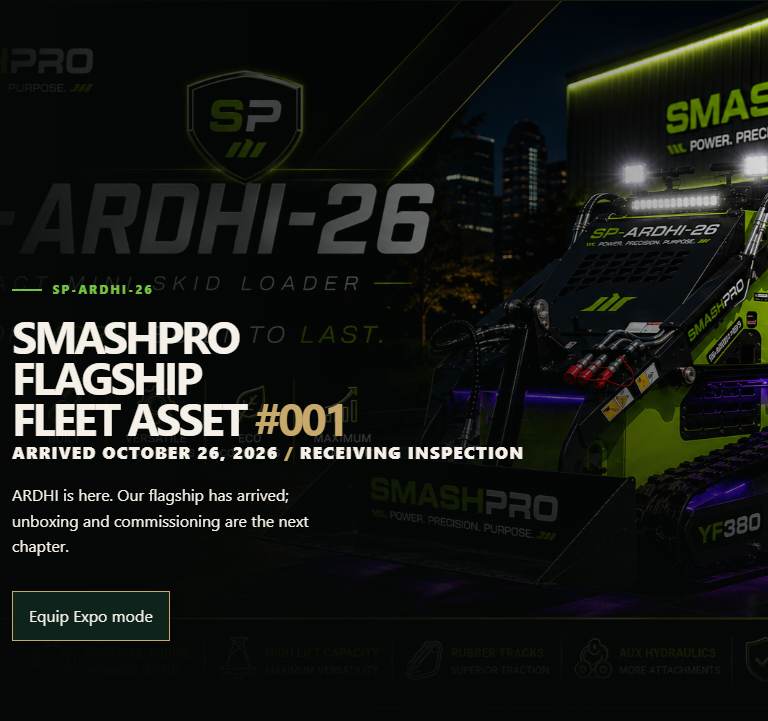
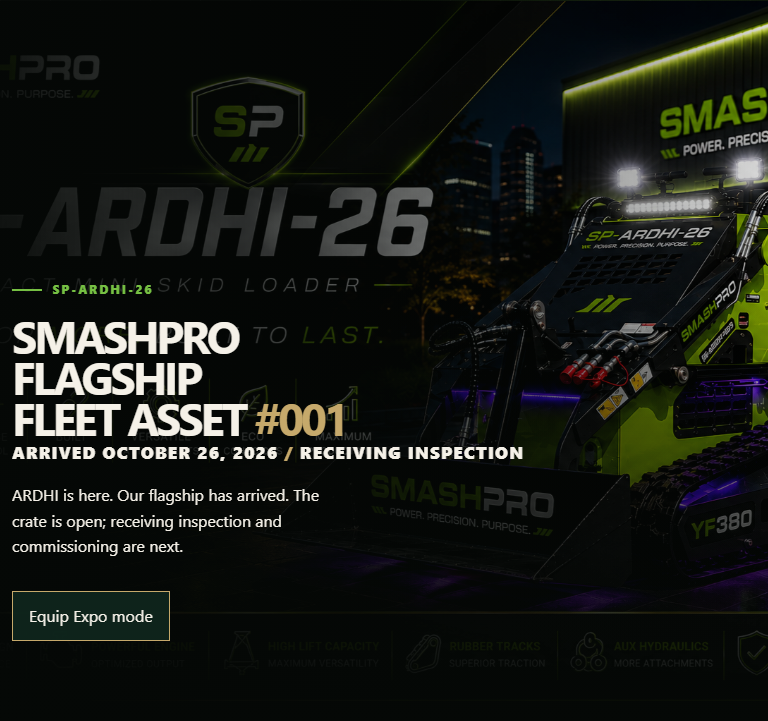
feat(ardhi): document crate opening with supplied photographs

diff --git a/src/data/ardhiDelivery.ts b/src/data/ardhiDelivery.ts
@@ -8,7 +8,7 @@ export const ardhiDelivery = {
   status: 'Delivered / Receiving inspection',
   carrier: 'R+L Carriers', pro: 'IACO468333', origin: 'CONVOY USA-SAVANNAH',
   cratedWeight: 'Approximately 950 kg',
-  summary: 'ARDHI has arrived. Final-mile delivery was completed on October 26, 2026. Receiving inspection is next; unboxing and commissioning are not yet verified.',
+  summary: 'ARDHI has arrived. Final-mile delivery was completed on October 26, 2026. Crate opening and panel removal are now photographed; receiving inspection and commissioning remain pending.',
   evidence: 'Carrier confirmation and photographs of the wooden shipping crate on the ground, confirmed by the owner on October 26, 2026. Delivery photographs are published below; the carrier confirmation document remains unpublished.',
 } as const;
 
@@ -22,14 +22,25 @@ export const ardhiDeliveryEvent: TimelineEvent = {
 // Original pixels; public copies remove GPS and private metadata, retain orientation.
 // One canonical gallery association per image; History references the gallery.
 export const ardhiDeliveryPhotos: GalleryImage[] = [
-  { id: 'ardhi-delivery-carrier-and-crate-20261026', src: '/equipment/images/sp-ardhi-26-delivery-2026-10-26-carrier-and-crate.jpg', alt: 'R+L Carriers truck beside ARDHI’s closed wooden shipping crate resting on the ground', caption: 'October 26, 2026: carrier and grounded shipping crate after final-mile delivery. The machine remains enclosed; this photograph does not establish commissioning.', capturedAt: '2026-10-26', width: 4000, height: 3000, group: 'delivery' },
-  { id: 'ardhi-delivery-crate-on-ground-20261026', src: '/equipment/images/sp-ardhi-26-delivery-2026-10-26-crate-on-ground.jpg', alt: 'Side view of ARDHI’s closed shipping crate on the ground next to the delivery truck', caption: 'October 26, 2026: closed crate and pallet base on the ground. Crate inspection, unboxing and contents checks remain pending.', capturedAt: '2026-10-26', width: 3000, height: 4000, group: 'delivery' },
+  { id: 'ardhi-delivery-carrier-and-crate-20261026', src: '/equipment/images/sp-ardhi-26-delivery-2026-10-26-carrier-and-crate.jpg', alt: 'R+L Carriers truck beside ARDHI’s closed wooden shipping crate resting on the ground', caption: 'October 26, 2026: carrier and grounded shipping crate after final-mile delivery. The machine was enclosed at this stage; this photograph does not establish commissioning.', capturedAt: '2026-10-26', width: 4000, height: 3000, group: 'delivery' },
+  { id: 'ardhi-delivery-crate-on-ground-20261026', src: '/equipment/images/sp-ardhi-26-delivery-2026-10-26-crate-on-ground.jpg', alt: 'Side view of ARDHI’s closed shipping crate on the ground next to the delivery truck', caption: 'October 26, 2026: closed crate and pallet base on the ground before the documented crate disassembly. Inspection and contents acceptance remain pending.', capturedAt: '2026-10-26', width: 3000, height: 4000, group: 'delivery' },
 ];
+export const ardhiUnboxingPhotos: GalleryImage[] = [
+  { id: 'ardhi-crate-opened-20261026', src: '/equipment/images/sp-ardhi-26-unboxing-2026-10-26-crate-opened.jpg', alt: 'ARDHI branding, loader arms and tool case visible inside the opened wooden crate', caption: 'Crate opened: ARDHI is visible inside its wooden packaging. This documents access to the machine, not a passed receiving inspection.', capturedAt: '2026-10-26', width: 3000, height: 4000, group: 'commissioning' },
+  { id: 'ardhi-panels-removed-20261026', src: '/equipment/images/sp-ardhi-26-unboxing-2026-10-26-panels-removed.jpg', alt: 'Green and black SP-ARDHI-26 YF380 exposed after crate panels were removed, still resting on its shipping base', caption: 'Panels removed: SP-ARDHI-26 / YF380 remains on the shipping base. Removal from the base, first startup and movement are not established by this photograph.', capturedAt: '2026-10-26', width: 3000, height: 4000, group: 'commissioning' },
+  { id: 'ardhi-tool-case-20261026', src: '/equipment/images/sp-ardhi-26-unboxing-2026-10-26-tool-case.jpg', alt: 'Open yellow and black supplied tool case with packaged tools visible', caption: 'Supplied tool case opened and photographed. Complete accessories, spares and attachment inventory remains pending.', capturedAt: '2026-10-26', width: 3000, height: 4000, group: 'commissioning' },
+];
+export const ardhiUnboxingEvent: TimelineEvent = {
+  id: 'ardhi-unboxing-20261026', occurredAt: '2026-10-26', kind: 'status',
+  title: 'Crate opened and panels removed',
+  detail: 'Owner-supplied photographs document crate opening, panel removal and the supplied tool case. ARDHI remains on its shipping base. Receiving inspection, complete accessories inventory, fluid checks, startup, movement and commissioning remain pending.',
+  publicDisplay: true,
+};
 // Reviewed projections of existing HQ media records, not a second media inventory.
 // Reuse canonical record IDs and YouTube IDs. No invented videos or publish dates.
 export const ardhiDeliveryVideos: EquipmentVideo[] = [];
 export const ardhiMediaSlots = [
-  { id: 'unboxing', title: 'Unboxing', detail: 'Video pending. The crate has not been verified open.' },
+  { id: 'unboxing', title: 'Unboxing video', detail: 'Video pending. Crate opening and panel removal are documented in the photo gallery.' },
   { id: 'first-start', title: 'First startup', detail: 'Video pending. First startup and commissioning are not yet verified.' },
 ] as const;
 

diff --git a/src/data/equipment.ts b/src/data/equipment.ts
@@ -1,4 +1,4 @@
-import { ardhiDelivery, ardhiDeliveryEvent, ardhiDeliveryPhotos } from "./ardhiDelivery";
+import { ardhiDelivery, ardhiDeliveryEvent, ardhiDeliveryPhotos, ardhiUnboxingPhotos, ardhiUnboxingEvent } from "./ardhiDelivery";
 import { umbaEquipment } from "./umbaEquipment";
 import { liftmateEquipment } from "./liftmateEquipment";
 import { nyasiEquipment } from "./nyasiEquipment";
@@ -115,6 +115,7 @@ export const equipment: Equipment[] = [
     ], serviceHistory: [],
     timeline: [
       ardhiDeliveryEvent,
+      ardhiUnboxingEvent,
       // The supplier intentionally created two linked Alibaba order groups for staged payments on this one SP-ARDHI-26 acquisition; they do not represent two machines.
       { id: "ardhi-procurement-opened", occurredAt: "2026-07-15", kind: "purchase", title: "Alibaba Procurement Opened", detail: "Two linked marketplace order groups were created to support staged payments for one SP-ARDHI-26 acquisition.", publicDisplay: true },
       { id: "ardhi-proforma-approved", occurredAt: "2026-07-16", kind: "purchase", title: "Configuration and Proforma Invoice Approved", detail: "Signed proforma invoice YF260716 established the YF380 configuration and $3,990 DDP commercial baseline, including export crate packaging and transportation.", publicDisplay: true },
@@ -141,9 +142,10 @@ export const equipment: Equipment[] = [
     capabilities: ["Earthmoving and grading", "Loading and unloading", "Pallet handling", "Tight-access work", "Attachment-powered work"],
     capabilityIds: ["compact_access", "material_handling", "grading", "lifting", "landscape", "cleanup", "pallet_handling"], attachmentIds: ["bucket", "pallet_forks"],
     idealUses: ["Landscape installation", "Property cleanup", "Residential access", "Material staging", "Site preparation"],
-    restrictions: ["Receiving inspection pending. Unboxing, commissioning and operational readiness are not yet verified.", "Rental availability has not been announced.", "Operator eligibility, transport, site access, and attachment approval must be confirmed before use."],
+    restrictions: ["Crate opening documented. Receiving inspection, commissioning and operational readiness are not yet verified.", "Rental availability has not been announced.", "Operator eligibility, transport, site access, and attachment approval must be confirmed before use."],
     gallery: [
       ...ardhiDeliveryPhotos,
+      ...ardhiUnboxingPhotos,
       { id: "ardhi-shipping-hydraulics", src: image("sp-ardhi-26-shipping-2026-08-21-01.png"), alt: "Front-left view of SP-ARDHI-26 on a wooden shipping pallet with its bucket, auxiliary hydraulic couplers, tracks, and a yellow tool case visible", caption: "SP-ARDHI-26 staged on its wooden pallet with the bucket and auxiliary hydraulic connections visible.", capturedAt: "2026-08-21", width: 1366, height: 1024, group: "shipping" },
       { id: "ardhi-shipping-front", src: image("sp-ardhi-26-shipping-2026-08-21-02.png"), alt: "Front view of SP-ARDHI-26 positioned on a wooden pallet in the factory staging area beside shipping-crate panels", caption: "Front view of the machine positioned on its pallet in the factory staging area.", capturedAt: "2026-08-21", width: 1024, height: 1366, group: "shipping" },
       { id: "ardhi-shipping-pallet-blocking", src: image("sp-ardhi-26-shipping-2026-08-21-03.png"), alt: "Close view beneath SP-ARDHI-26 showing the black steel undercarriage secured against wooden pallet blocking during shipping preparation", caption: "Undercarriage and wooden pallet blocking documented during shipping preparation.", capturedAt: "2026-08-21", width: 1366, height: 1024, group: "shipping" },

diff --git a/src/components/ArdhiDelivery.tsx b/src/components/ArdhiDelivery.tsx
@@ -19,11 +19,15 @@ export function ArdhiDeliveryJourney() {
 }
 
 export function ArdhiDeliveryMedia({ item }: { item: Equipment }) {
+  const unboxingPhotos = item.gallery.filter(photo => photo.group === 'commissioning' && photo.kind !== 'video');
   const photos = item.gallery.filter(photo => photo.group === 'delivery' && photo.kind !== 'video');
   return <section className="section shell ardhi-delivery" id="delivery-media" aria-labelledby="ardhi-delivery-media-title">
-    <header><p className="eyebrow">Arrival / Unboxing / Commissioning</p><h2 id="ardhi-delivery-media-title">From crate to first start.</h2><p>Follow ARDHI's arrival through reviewed photographs and SmashPro HQ videos. Unboxing and commissioning are not yet verified.</p></header>
+    <header><p className="eyebrow">Arrival / Unboxing / Commissioning</p><h2 id="ardhi-delivery-media-title">From crate to first start.</h2><p>Follow ARDHI's arrival through reviewed photographs and SmashPro HQ videos. Crate opening is documented; receiving inspection and commissioning remain pending.</p></header>
     <h3>Delivery photo gallery</h3>
     <div className="ardhi-delivery-media-grid">{photos.length ? photos.map(photo => <figure key={photo.id ?? photo.src}><img src={photo.src} alt={photo.alt} width={photo.width} height={photo.height} loading="lazy" decoding="async" /><figcaption>{photo.caption}</figcaption></figure>) : <article className="ardhi-media-pending"><p className="eyebrow">Photograph pending publication</p><h4>Shipping crate on the ground</h4><p>The delivery photograph is confirmed by the owner but is not yet available in this public gallery. It will appear after upload and privacy review.</p></article>}</div>
+    <div id="unboxing-photos"><h3>Crate disassembly / Unboxing photos</h3><p>Crate opening and panel removal documented October 26, 2026. ARDHI remains on its shipping base; inspection results and operational readiness are not verified.</p>
+      <div className="ardhi-delivery-media-grid">{unboxingPhotos.map(photo => <figure key={photo.id ?? photo.src}><img src={photo.src} alt={photo.alt} width={photo.width} height={photo.height} loading="lazy" decoding="async" /><figcaption>{photo.caption}</figcaption></figure>)}</div>
+    </div>
     <div id="watch-ardhi"><h3>Watch ARDHI</h3><EquipmentWatch videos={ardhiDeliveryVideos} equipmentId={item.fleetId} channelUrl="https://www.youtube.com/@SmashProHQ" emptyMessage="Unboxing and first-start episodes are pending. Verified Shorts and full-length videos will appear here after publication." /></div>
     <div className="ardhi-delivery-media-grid">{ardhiMediaSlots.map(slot => <article className="ardhi-media-pending" key={slot.id}><p className="eyebrow">Upcoming / Not yet verified</p><h4>{slot.title}</h4><p>{slot.detail}</p></article>)}</div>
     <nav className="ardhi-delivery-links" aria-label="Follow ARDHI across SmashPro"><a href="/media/">Media Center</a><a href="/equipment/#fleet">Equipment Showcase</a><a href="/">SmashPro stories</a><a id="check-in" href="/k/ARDHI26-K01/">Operator access / sign-in required</a><a href="/dashboard/">Digital HQ · sign-in required</a></nav>

diff --git a/src/components/ArdhiPassportJourney.tsx b/src/components/ArdhiPassportJourney.tsx
@@ -8,7 +8,7 @@ import { isExpoSearch } from "../data/ardhiExpo";
 const ArdhiExpo = lazy(() => import("./ArdhiExpo"));
 import { ShipmentJourney } from "./ShipmentJourney";
 import { useShipment } from "../hooks/useShipment";
-import { ardhiDelivery, ardhiDeliveryEvent } from "../data/ardhiDelivery";
+import { ardhiDelivery, ardhiDeliveryEvent, ardhiUnboxingEvent } from "../data/ardhiDelivery";
 import { ArdhiDeliveryMedia } from "./ArdhiDelivery";
 import { PassportHero } from "./PassportHero";
 import "../styles/ardhi-passport-v2.css";
@@ -311,6 +311,7 @@ const history: HistoryRecord[] = [
   { id: "warehouse-transfer", date: "Pending", title: "Transferred to Warehouse", status: "future", narrative: "Separate warehouse-transfer evidence and date remain unverified; final delivery is documented below." },
   { id: "delivery-scheduled", date: "Pending", title: "Delivery Scheduled", status: "future", narrative: "Scheduling evidence was not supplied. Actual final-mile delivery was completed October 26, 2026." },
   { id: "future-5", date: ardhiDelivery.date, title: ardhiDeliveryEvent.title, status: "documented", confidence: "Verified delivery", narrative: ardhiDeliveryEvent.detail!, supplier: `${ardhiDelivery.carrier} / PRO ${ardhiDelivery.pro} / ${ardhiDelivery.origin}`, outcome: "Receiving inspection pending. Not operational or rental-ready.", mediaChapter: "delivery", mediaLabel: "View delivery media status" },
+  { id: "unboxing-20261026", date: "2026-10-26", title: ardhiUnboxingEvent.title, status: "documented", confidence: "Photographed", narrative: ardhiUnboxingEvent.detail!, mediaChapter: "delivery", mediaLabel: "View crate disassembly photographs" },
   ...["Ocean Departure", "Cross Pacific", "USA Arrival", "Customs", "Released", "Delivery", "Commissioning", "First Startup", "First Fuel", "First Attachment", "First Job", "10 Hours", "50 Hours", "100 Hours", "Annual Inspection"].map(
     (title, index): HistoryRecord => ({
       id: `future-${index}`,
@@ -526,7 +527,7 @@ export function ArdhiPassportJourney({ item }: { item: Equipment }) {
           <p>
             Arrived October 26, 2026 <b>/</b> Receiving inspection
           </p>
-          <p className="flagship-hero-description">{expo ? "Welcome to the future of fleet management. You're not looking at a brochure. You're looking at the digital identity of a real commercial machine." : "ARDHI is here. Our flagship has arrived; unboxing and commissioning are the next chapter."}</p>
+          <p className="flagship-hero-description">{expo ? "Welcome to the future of fleet management. You're not looking at a brochure. You're looking at the digital identity of a real commercial machine." : "ARDHI is here. Our flagship has arrived. The crate is open; receiving inspection and commissioning are next."}</p>
           {expo && <a className="sponsor-button sponsor-hero-cta" href="#expo-opportunities">Find your opportunity</a>}
           <button className="flagship-expo-toggle" type="button" aria-pressed={expo} onClick={toggleExpo}>{expo ? "Exit Equip Expo mode" : "Equip Expo mode"}</button>
       </PassportHero>

diff --git a/src/data/passportRecords.ts b/src/data/passportRecords.ts
@@ -1,4 +1,4 @@
-import { ardhiDelivery, ardhiDeliveryPhotos } from "./ardhiDelivery";
+import { ardhiDelivery, ardhiDeliveryPhotos, ardhiUnboxingPhotos } from "./ardhiDelivery";
 // Build/server entry only. React imports virtual:passport-public instead.
 import { equipment } from "./equipment";
 import {
@@ -405,10 +405,13 @@ ardhi.build.sections.journey = {
     ardhiDelivery.summary,
 };
 // Preserve the source identity and keep delivery photographs separate from factory/field tests.
-for (const photo of ardhiDeliveryPhotos) {
+for (const photo of [...ardhiDeliveryPhotos, ...ardhiUnboxingPhotos]) {
   const record = ardhi.records.find(record => record.id === photo.id)!;
   Object.assign(record, { media_kind: "shipping", source_type: "smashpro", evidence_state: "verified", productionEvidence: false, factoryEvidence: false, fieldEvidence: false });
 }
+// Crate opening is a discrete receiving event, never a commissioning completion.
+const unboxing = ardhi.records.find(record => record.id === "ardhi-unboxing-20261026")!;
+Object.assign(unboxing, { kind: "lifecycle_event", evidence_state: "verified", source_type: "smashpro", stage_id: "receiving_inspection", event_type: "crate_opened", evidence_ids: ardhiUnboxingPhotos.map(photo => photo.id!) });
 // Public delivery evidence is an owner-confirmed carrier summary plus reviewed photographs.
 const delivery = ardhi.records.find(record => record.id === "ardhi-delivery-20261026")!;
 Object.assign(delivery, { kind: "lifecycle_event", evidence_state: "verified", source_type: "carrier", stage_id: "delivery", event_type: "delivered", evidence_ids: ["ardhi-delivery-confirmation-20261026"] });

diff --git a/src/data/ardhiFlagship.ts b/src/data/ardhiFlagship.ts
@@ -6,11 +6,11 @@ export function verifiedEvidence(evidence: PublicEvidence[]) {
 }
 export type CommissioningCheck = { id: string; title: string; evidence: PublicEvidence[] };
 export const commissioningChecks: CommissioningCheck[] = [
-  ['delivery', 'Delivery'], ['crate-inspection', 'Crate Inspection'], ['crate-opened', 'Unboxing'], ['accessories', 'Accessories and attachments'],
+  ['delivery', 'Delivery'], ['crate-inspection', 'Crate Inspection'], ['crate-opened', 'Crate opened / panels removed'], ['accessories', 'Accessories and attachments'],
   ['fluids', 'Engine and hydraulic fluid checks'], ['battery', 'Battery'], ['hydraulics', 'Hydraulics'], ['engine', 'Engine'],
   ['first-start', 'First startup'], ['first-drive', 'First movement'], ['operator', 'Operator commissioning'], ['field-test', 'First field test'], ['photos', 'Photos'],
   ['warranty', 'Warranty'], ['passport-complete', 'Passport Complete'],
-].map(([id, title]) => ({ id, title, evidence: id === 'delivery' ? [{ title: 'Verified October 26 delivery', href: '#history-future-5', state: 'verified' }] : [] }));
+].map(([id, title]) => ({ id, title, evidence: id === 'delivery' ? [{ title: 'Verified October 26 delivery', href: '#history-future-5', state: 'verified' }] : id === 'crate-opened' ? [{ title: 'Crate opening photographs', href: '#history-unboxing-20261026', state: 'verified' }] : [] }));
 
 export type ServiceEntry = {
   id: string; hours: number; date: string; technician: string;

diff --git a/src/components/ArdhiFlagship.tsx b/src/components/ArdhiFlagship.tsx
@@ -14,7 +14,7 @@ export function ArdhiMissionDashboard() {
   return <section className="shell flagship-dashboard" id="mission-dashboard" aria-labelledby="mission-dashboard-title">
     <header><div><p className="eyebrow">Fleet Asset 001 / Mission Control</p><h2 id="mission-dashboard-title">SP-ARDHI-26</h2></div><p><span className="flagship-status-dot" aria-hidden="true" /> {ardhiDelivery.status}</p></header>
     <dl>{fields.map(([label, value]) => <div key={label}><dt>{label}</dt><dd>{value}</dd></div>)}</dl>
-    <footer><span>Delivered October 26, 2026; unboxing and commissioning unverified</span><a href="#history-future-5">View current evidence ↗</a></footer>
+    <footer><span>Delivered October 26, 2026; crate opening documented; commissioning unverified</span><a href="#history-future-5">View current evidence ↗</a></footer>
   </section>;
 }
 

diff --git a/docs/fleet/SP-ARDHI-26-DELIVERY-20261026.md b/docs/fleet/SP-ARDHI-26-DELIVERY-20261026.md
@@ -4,7 +4,7 @@
 
 SP-ARDHI-26 / YF380 was delivered October 26, 2026 by R+L Carriers, PRO IACO468333, freight origin CONVOY USA-SAVANNAH. The owner confirmed carrier delivery and supplied photographs showing the wooden shipping crate on the ground. Crated weight is approximately 950 kg; it is not operating weight. The carrier confirmation document itself has not been supplied for public publication.
 
-Delivery is complete. Receiving inspection, unboxing, accessories/attachments inventory, engine and hydraulic fluid checks, first startup, first movement, operator commissioning and first field test remain pending. No operational, rental-ready, damage-free, inspection-passed or contents-accepted claim is made.
+Delivery is complete. Crate opening and panel removal are now documented. Receiving inspection, complete accessories/attachments inventory, engine and hydraulic fluid checks, first startup, first movement, operator commissioning and first field test remain pending. No operational, rental-ready, damage-free, inspection-passed or contents-accepted claim is made.
 
 ## Implementation audit
 
@@ -12,7 +12,7 @@ Delivery is complete. Receiving inspection, unboxing, accessories/attachments in
 - `ardhiDelivery.ts` supplies one reviewed editorial delivery record to the equipment collection, Journey, media gallery and public passport projection. Existing `history-future-5` is completed rather than duplicated; old links remain valid.
 - Original factory, payment, export, vessel and port records remain. October 9 port-arrival data remains an immutable historical snapshot. Customs-release and warehouse dates are not inferred from final delivery.
 - `ShipmentJourney` presents delivery first and retains its older feed, vessel map and Atlas context inside “Earlier vessel and shipment evidence.” Older/cached/unavailable feed data cannot regress the new reviewed delivery state. Atlas has not been written to or relabeled as delivery proof.
-- Commissioning evidence gates remain. Only delivery is documented; first job and service readiness stay pending. Sponsor opportunities and existing public QR/Expo links remain unchanged.
+- Commissioning evidence gates remain. Delivery and crate opening are documented; first job and service readiness stay pending. Sponsor opportunities and existing public QR/Expo links remain unchanged.
 - This repository does not own the authenticated Smart Key PHP routes or operator sessions. No authentication, check-in handler, database or private custody record is changed. The stable Passport `#check-in` anchor links to the existing `/k/ARDHI26-K01/` route, which remains external; its HTTP availability was checked, not an authenticated operator session. No check-in is inferred from viewing this Passport.
 
 ## Delivery photographs
@@ -46,7 +46,7 @@ Checks include TypeScript, unit tests, production build, public index/media/pass
 
 Protected hash fixtures are refreshed only for the reviewed ARDHI renderer and shared equipment-file change. The MZIGO portion, original drive-history hash, shared styles and deployment workflow remain unchanged.
 
-No merge or deployment is authorized in this sprint. Remaining evidence: publishable carrier confirmation if desired; receiving inspection; unboxing and accessory inventory; engine/hydraulic checks; verified first-start/first-movement footage; operator commissioning; first field test; any future delivery article and HQ media association IDs.
+No merge or deployment is authorized in this sprint. Remaining evidence: publishable carrier confirmation if desired; receiving inspection; complete accessory inventory; engine/hydraulic checks; verified first-start/first-movement footage; operator commissioning; first field test; any future delivery article and HQ media association IDs.
 
 ### Results
 
@@ -57,3 +57,19 @@ No merge or deployment is authorized in this sprint. Remaining evidence: publish
 - Source photo pixels match the public JPEGs; only orientation and the ICC color profile remain as metadata. GPS and vendor metadata are excluded by a regression test.
 - Existing Smart Key, dashboard and live Passport returned HTTP 200 during read-only checks. Media Center fetch timed out; its established repository destination is retained. No signed-in operator-session or physical NFC test was performed.
 - Section captures hide the sticky navigation and focused skip link only during screenshot capture; behavior is tested with normal page styles.
+
+## October 26 follow-up: crate disassembly photographs
+
+Owner supplied 14 images in `Crate dissamble-20261026T155401Z-1-001/Crate dissamble`. Three complementary images were reviewed and added to the existing equipment gallery under `commissioning`; the delivery photos remain in their original group.
+
+| Source | Public copy |
+| --- | --- |
+| `20261026_105230.jpg` | `sp-ardhi-26-unboxing-2026-10-26-crate-opened.jpg` |
+| `20261026_112916.jpg` | `sp-ardhi-26-unboxing-2026-10-26-panels-removed.jpg` |
+| `20261026_113052.jpg` | `sp-ardhi-26-unboxing-2026-10-26-tool-case.jpg` |
+
+The originals are unchanged. Public JPEGs preserve original pixels and orientation, remove GPS and vendor metadata, and retain only orientation/ICC metadata. Images show crate access, removed panels, the machine on its shipping base and the open tool case. No residential address, personal contact or readable private license plate is shown in the selected views.
+
+`ardhi-unboxing-20261026` is the receiving event; History uses `history-unboxing-20261026`. Media IDs are distinct, associated once and reused by the gallery and evidence links. Only the narrowly labeled `Crate opened / panels removed` checklist item advances. No damage-free inspection, complete accessory receipt, removal from the base, first startup/movement, fluid check or commissioning is inferred. Unboxing video remains pending even though photographs exist. Delivery captions retain their earlier, closed-crate chronology.
+
+Follow-up validation: `npm.cmd run validate` passed all 170 unit tests, TypeScript, production build and public artifact checks. Focused receiving/metadata tests passed 4/4 after adding event-ID uniqueness assertions. All four Playwright scenarios passed again at 390/768/1440px with five gallery images decoded and crate opening documented while startup and accessories acceptance remain pending. Updated screenshots are included. No merge, deployment, database or authentication changes.

diff --git a/docs/fleet/SP-ARDHI-26-PASSPORT.md b/docs/fleet/SP-ARDHI-26-PASSPORT.md
@@ -13,7 +13,7 @@
 
 SP-ARDHI-26 / YF380 was delivered by **R+L Carriers**, PRO **IACO468333**, from **CONVOY USA-SAVANNAH**. The owner confirmed carrier delivery and supplied photographs of the closed wooden crate on the ground. Crated weight is approximately **950 kg**, separate from operating weight.
 
-**Current state: Delivered / Receiving inspection.** Unboxing, accessories inventory, fluid checks, first startup, first movement, operator commissioning and first field test are not yet verified. ARDHI is not represented as operational or rental-ready. Separate customs/warehouse event dates remain unverified; historical records below retain their original context.
+**Current state: Delivered / Receiving inspection.** Crate opening and panel removal are photographed. ARDHI remains on its shipping base; receiving inspection, complete accessories inventory, fluid checks, first startup, first movement, operator commissioning and first field test remain unverified. ARDHI is not represented as operational or rental-ready. Separate customs/warehouse event dates remain unverified; historical records below retain their original context.
 
 See the [delivery implementation and media record](SP-ARDHI-26-DELIVERY-20261026.md) for photo provenance, remaining evidence, privacy handling and validation.
 
